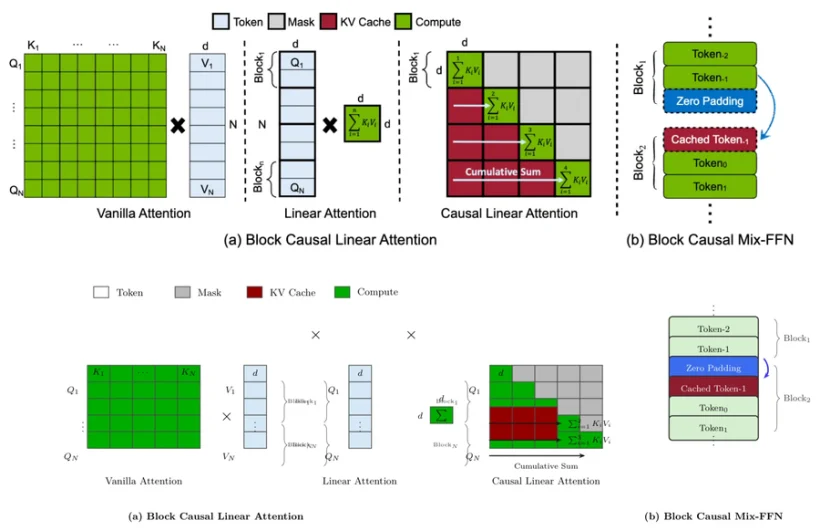
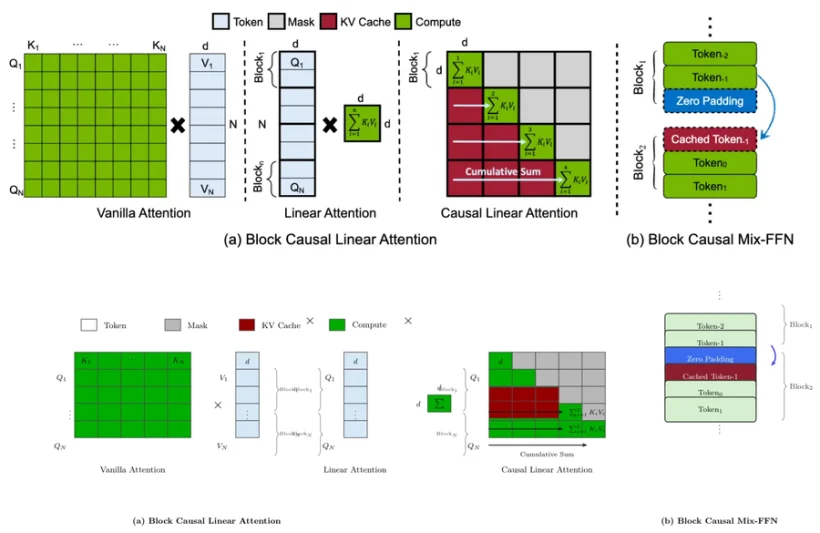
improve(replicas): 第二十九轮 —— 06 整体几何放大 1.22 倍
之前逐点挪坐标反复出碰撞，这轮改成系统化缩放：
- 所有 (x,y) 坐标统一 ×1.22，foreach 步长 0.72→0.88
- 方块宽度 2.85→3.45cm / 0.78→0.94cm，图例色块 0.48→0.58cm
- 图例移到 6.75（贴近矩阵顶），(a)/(b) caption 移到 -3.05
- 纵向 y 0.72→0.825 保持 AR
AR 3.21，矩阵明显放大，行密度 0.469/0.491（原图 0.569/0.608）

diff --git a/tools/figlab/reps_tikz.py b/tools/figlab/reps_tikz.py
@@ -275,109 +275,109 @@ def fig06() -> str:
 }
 
 % ================= 图例 =================
-\begin{scope}[shift={(1.30,7.55)}, every node/.style={font=\small}]
-  \draw[cell, fill=white] (0,0) rectangle (0.48,0.48);
-  \node[anchor=west] at (0.60,0.24) {Token};
-  \draw[cell, fill=black!28] (2.60,0) rectangle (3.08,0.48);
-  \node[anchor=west] at (3.20,0.24) {Mask};
-  \draw[cell, fill=red!58!black] (4.90,0) rectangle (5.38,0.48);
-  \node[anchor=west] at (5.50,0.24) {KV Cache};
-  \draw[cell, fill=green!68!black] (7.70,0) rectangle (8.18,0.48);
-  \node[anchor=west] at (8.30,0.24) {Compute};
+\begin{scope}[shift={(1.59,6.75)}, every node/.style={font=\small}]
+  \draw[cell, fill=white] (0,0) rectangle (0.59,0.59);
+  \node[anchor=west] at (0.73,0.29) {Token};
+  \draw[cell, fill=black!28] (3.17,0) rectangle (3.76,0.59);
+  \node[anchor=west] at (3.9,0.29) {Mask};
+  \draw[cell, fill=red!58!black] (5.98,0) rectangle (6.56,0.59);
+  \node[anchor=west] at (6.71,0.29) {KV Cache};
+  \draw[cell, fill=green!68!black] (9.39,0) rectangle (9.98,0.59);
+  \node[anchor=west] at (10.13,0.29) {Compute};
 \end{scope}
 
 % ================= (a-1) Vanilla Attention =================
-\begin{scope}[shift={(1.10,3.90)}]
+\begin{scope}[shift={(1.34,4.76)}]
   \foreach \r in {0,...,4}{
     \foreach \c in {0,...,4}{
-      \draw[cmp] (\c*0.72,-\r*0.72) rectangle ++(0.72,0.72);
+      \draw[cmp] (\c*0.88,-\r*0.88) rectangle ++(0.88,0.88);
     }
   }
-  \node[lbl, anchor=east] at (-0.14,-0.36) {$Q_1$};
-  \node[lbl, anchor=east] at (-0.14,-3.24) {$Q_N$};
-  \node[lbl] at (-0.14,-1.80) {$\vdots$};
-  \node[lbl, anchor=south] at (0.36,0.10) {$K_1$};
-  \node[lbl, anchor=south] at (3.24,0.10) {$K_N$};
-  \node[lbl] at (1.80,0.42) {$\cdots$};
-  \node[ttl, anchor=north] at (1.80,-3.95) {Vanilla Attention};
+  \node[lbl, anchor=east] at (-0.17,-0.44) {$Q_1$};
+  \node[lbl, anchor=east] at (-0.17,-3.95) {$Q_N$};
+  \node[lbl] at (-0.17,-2.2) {$\vdots$};
+  \node[lbl, anchor=south] at (0.44,0.12) {$K_1$};
+  \node[lbl, anchor=south] at (3.95,0.12) {$K_N$};
+  \node[lbl] at (2.2,0.51) {$\cdots$};
+  \node[ttl, anchor=north] at (2.2,-4.82) {Vanilla Attention};
 \end{scope}
 
-\node[font=\Large] at (5.55,2.40) {$\times$};
+\node[font=\Large] at (6.77,2.93) {$\times$};
 
 % ================= (a-2) Linear Attention =================
-\begin{scope}[shift={(6.10,3.90)}]
+\begin{scope}[shift={(7.44,4.76)}]
   % V 列
-  \foreach \r in {0,...,4}{ \draw[tok] (0,-\r*0.72) rectangle ++(0.72,0.72); }
-  \node[lbl, anchor=east] at (-0.14,-0.36) {$V_1$};
-  \node[lbl, anchor=east] at (-0.14,-3.24) {$V_N$};
-  \node[lbl, anchor=south] at (0.36,0.10) {$d$};
-  \node[lbl] at (0.36,-1.80) {$\vdots$};
-  \draw[brc] (1.20,0.04) -- (1.20,-1.76) node[midway, right=2pt, font=\tiny] {Block$_1$};
-  \draw[brc] (1.20,-1.84) -- (1.20,-3.64) node[midway, right=2pt, font=\tiny] {Block$_N$};
+  \foreach \r in {0,...,4}{ \draw[tok] (0,-\r*0.88) rectangle ++(0.88,0.88); }
+  \node[lbl, anchor=east] at (-0.17,-0.44) {$V_1$};
+  \node[lbl, anchor=east] at (-0.17,-3.95) {$V_N$};
+  \node[lbl, anchor=south] at (0.44,0.12) {$d$};
+  \node[lbl] at (0.44,-2.2) {$\vdots$};
+  \draw[brc] (1.46,0.05) -- (1.46,-2.15) node[midway, right=2pt, font=\tiny] {Block$_1$};
+  \draw[brc] (1.46,-2.24) -- (1.46,-4.44) node[midway, right=2pt, font=\tiny] {Block$_N$};
 
-  \node[font=\Large] at (2.30,2.05) {$\times$};
+  \node[font=\Large] at (2.81,2.5) {$\times$};
 
   % Q 列
-  \begin{scope}[shift={(3.35,0)}]
-    \foreach \r in {0,...,4}{ \draw[tok] (0,-\r*0.72) rectangle ++(0.72,0.72); }
-    \node[lbl, anchor=east] at (-0.16,-0.36) {$Q_1$};
-    \node[lbl, anchor=east] at (-0.16,-3.24) {$Q_N$};
-    \node[lbl, anchor=south] at (0.36,0.10) {$d$};
-    \node[lbl] at (0.36,-1.80) {$\vdots$};
-    \draw[brc] (-0.80,0.04) -- (-0.80,-1.76) node[midway, left=2pt, font=\tiny] {Block$_1$};
-    \draw[brc] (-0.80,-1.84) -- (-0.80,-3.64) node[midway, left=2pt, font=\tiny] {Block$_N$};
+  \begin{scope}[shift={(4.09,0)}]
+    \foreach \r in {0,...,4}{ \draw[tok] (0,-\r*0.88) rectangle ++(0.88,0.88); }
+    \node[lbl, anchor=east] at (-0.2,-0.44) {$Q_1$};
+    \node[lbl, anchor=east] at (-0.2,-3.95) {$Q_N$};
+    \node[lbl, anchor=south] at (0.44,0.12) {$d$};
+    \node[lbl] at (0.44,-2.2) {$\vdots$};
+    \draw[brc] (-0.98,0.05) -- (-0.98,-2.15) node[midway, left=2pt, font=\tiny] {Block$_1$};
+    \draw[brc] (-0.98,-2.24) -- (-0.98,-4.44) node[midway, left=2pt, font=\tiny] {Block$_N$};
   \end{scope}
 
-  \node[font=\Large] at (5.35,2.05) {$\times$};
+  \node[font=\Large] at (6.53,2.5) {$\times$};
 
   % Σ 结果块
-  \begin{scope}[shift={(5.95,-1.80)}]
-    \draw[cmp] (0,0) rectangle (0.72,0.72);
-    \node[font=\normalsize] at (0.36,0.36) {$\sum$};
-    \node[lbl, anchor=south] at (0.36,0.80) {$d$};
-    \node[lbl, anchor=east] at (-0.12,0.36) {$d$};
+  \begin{scope}[shift={(7.26,-2.2)}]
+    \draw[cmp] (0,0) rectangle (0.88,0.88);
+    \node[font=\normalsize] at (0.44,0.44) {$\sum$};
+    \node[lbl, anchor=south] at (0.44,0.98) {$d$};
+    \node[lbl, anchor=east] at (-0.15,0.44) {$d$};
   \end{scope}
 
-  \node[ttl, anchor=north] at (3.70,-3.95) {Linear Attention};
+  \node[ttl, anchor=north] at (4.51,-4.82) {Linear Attention};
 \end{scope}
 
 % ================= (a-3) Causal Linear Attention =================
-\begin{scope}[shift={(13.95,3.90)}]
+\begin{scope}[shift={(17.02,4.76)}]
   \foreach \r in {0,...,4}{
     \foreach \c in {0,...,4}{
       \pgfmathparse{\r<\c ? 0 : 1}
       \ifnum\pgfmathresult=0
-        \draw[mask] (\c*0.72,-\r*0.72) rectangle ++(0.72,0.72);
+        \draw[mask] (\c*0.88,-\r*0.88) rectangle ++(0.88,0.88);
       \else
-        \draw[cmp] (\c*0.72,-\r*0.72) rectangle ++(0.72,0.72);
+        \draw[cmp] (\c*0.88,-\r*0.88) rectangle ++(0.88,0.88);
       \fi
     }
   }
   % 第 3、4 行的前段标成 KV Cache
   \foreach \c in {0,1,2}{
-    \draw[kv] (\c*0.72,-1.80) rectangle ++(0.72,0.72);
-    \draw[kv] (\c*0.72,-2.52) rectangle ++(0.72,0.72);
+    \draw[kv] (\c*0.88,-1.80) rectangle ++(0.88,0.88);
+    \draw[kv] (\c*0.88,-2.52) rectangle ++(0.88,0.88);
   }
-  \node[lbl, anchor=south] at (0.36,0.10) {$d$};
-  \node[lbl, anchor=east] at (-0.16,-0.36) {$Q_1$};
-  \node[lbl, anchor=east] at (-0.16,-3.24) {$Q_N$};
-  \draw[brc] (-0.80,0.04) -- (-0.80,-1.76) node[midway, left=2pt, font=\tiny] {Block$_1$};
-  \draw[brc] (-0.80,-1.84) -- (-0.80,-3.64) node[midway, left=2pt, font=\tiny] {Block$_N$};
+  \node[lbl, anchor=south] at (0.44,0.12) {$d$};
+  \node[lbl, anchor=east] at (-0.2,-0.44) {$Q_1$};
+  \node[lbl, anchor=east] at (-0.2,-3.95) {$Q_N$};
+  \draw[brc] (-0.98,0.05) -- (-0.98,-2.15) node[midway, left=2pt, font=\tiny] {Block$_1$};
+  \draw[brc] (-0.98,-2.24) -- (-0.98,-4.44) node[midway, left=2pt, font=\tiny] {Block$_N$};
 
   % 累积求和箭头
-  \draw[arr2] (-0.02,-1.80) -- (2.30,-1.80);
-  \node[font=\scriptsize, anchor=west] at (2.38,-1.80) {$\sum_{i=1}^{2}K_iV_i$};
-  \draw[arr2] (-0.02,-2.52) -- (2.30,-2.52);
-  \node[font=\scriptsize, anchor=west] at (2.38,-2.52) {$\sum_{i=1}^{3}K_iV_i$};
-  \draw[arr2] (-0.02,-3.20) -- (3.05,-3.20);
-  \node[font=\scriptsize, anchor=north] at (1.80,-3.34) {Cumulative Sum};
+  \draw[arr2] (-0.02,-2.2) -- (2.81,-2.2);
+  \node[font=\scriptsize, anchor=west] at (2.9,-2.2) {$\sum_{i=1}^{2}K_iV_i$};
+  \draw[arr2] (-0.02,-3.07) -- (2.81,-3.07);
+  \node[font=\scriptsize, anchor=west] at (2.9,-3.07) {$\sum_{i=1}^{3}K_iV_i$};
+  \draw[arr2] (-0.02,-3.9) -- (3.72,-3.9);
+  \node[font=\scriptsize, anchor=north] at (2.2,-4.07) {Cumulative Sum};
 
-  \node[ttl, anchor=north] at (1.80,-3.95) {Causal Linear Attention};
+  \node[ttl, anchor=north] at (2.2,-4.82) {Causal Linear Attention};
 \end{scope}
 
 % ================= (b) Block Causal Mix-FFN =================
-\begin{scope}[shift={(19.55,3.60)}]
-  \node[font=\small] at (1.55,3.55) {$\vdots$};
+\begin{scope}[shift={(23.85,4.39)}]
+  \node[font=\small] at (1.89,4.33) {$\vdots$};
 
   \foreach \i/\name/\fc/\tc in {
       0/{Token-2}/fxgrn/black,
@@ -388,21 +388,21 @@ def fig06() -> str:
       5/{Token$_1$}/fxgrn/black}{
     \pgfmathsetmacro{\yy}{2.60-\i*0.86}
     \node[draw=black!80, line width=1.0pt, rounded corners=3pt, fill=\fc,
-          minimum width=2.85cm, minimum height=0.78cm, font=\footnotesize, text=\tc]
+          minimum width=3.45cm, minimum height=0.94cm, font=\footnotesize, text=\tc]
       at (1.55,\yy) {\name};
   }
-  \node[font=\small] at (1.55,-2.10) {$\vdots$};
+  \node[font=\small] at (1.89,-2.56) {$\vdots$};
 
   % 蓝色复用弧线
   \draw[arr2, draw=blue!80, line width=1.3pt]
-    (3.15,1.31) to[bend left=42] (3.15,0.45);
+    (3.84,1.6) to[bend left=42] (3.84,0.55);
 
-  \draw[brc] (3.48,3.02) -- (3.48,1.35) node[midway, right=5pt, font=\footnotesize] {Block$_1$};
-  \draw[brc] (3.48,1.02) -- (3.48,-1.85) node[midway, right=5pt, font=\footnotesize] {Block$_2$};
+  \draw[brc] (4.25,3.68) -- (4.25,1.65) node[midway, right=5pt, font=\footnotesize] {Block$_1$};
+  \draw[brc] (4.25,1.24) -- (4.25,-2.26) node[midway, right=5pt, font=\footnotesize] {Block$_2$};
 \end{scope}
 
-\node[font=\small\bfseries] at (5.20,-1.95) {(a) Block Causal Linear Attention};
-\node[font=\small\bfseries] at (21.10,-1.95) {(b) Block Causal Mix-FFN};
+\node[font=\small\bfseries] at (6.34,-3.05) {(a) Block Causal Linear Attention};
+\node[font=\small\bfseries] at (25.74,-3.05) {(b) Block Causal Mix-FFN};
 \end{tikzpicture}
 """
 
